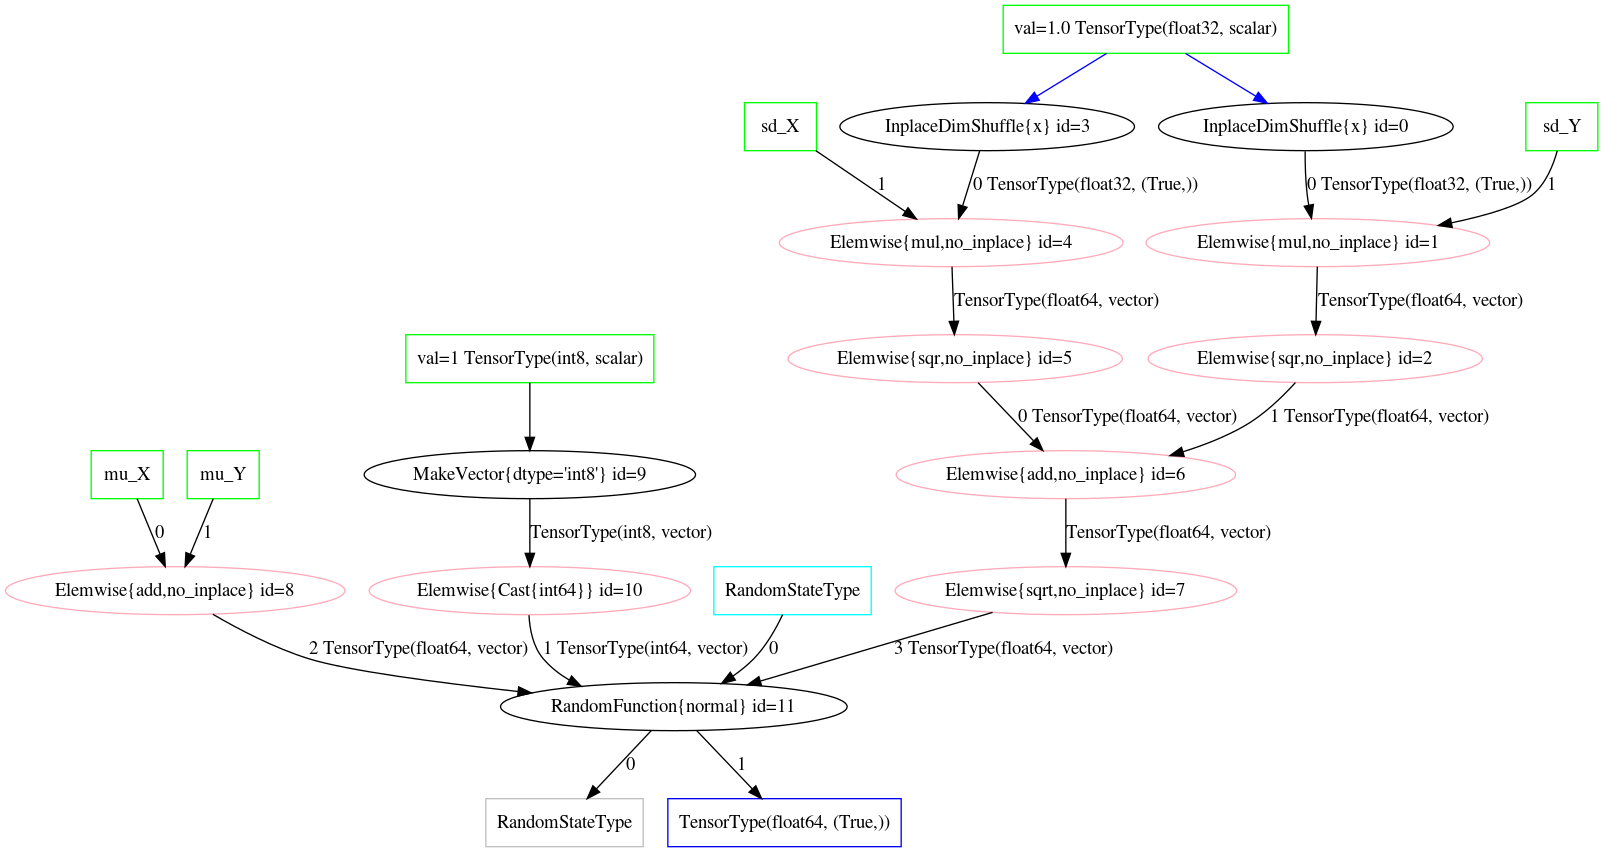
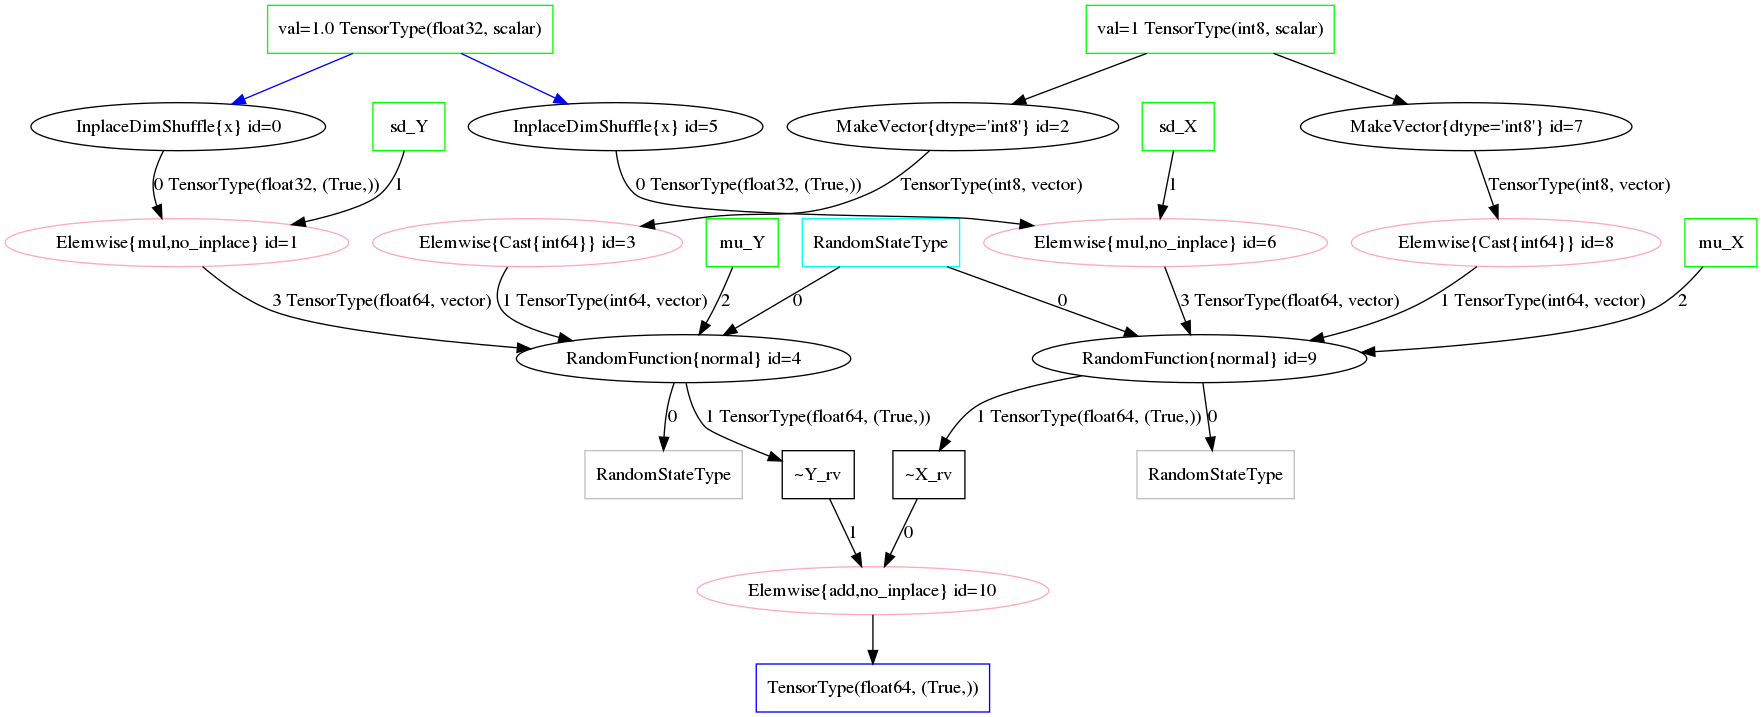
Generate Pelican site

diff --git a/symbolic-math-in-pymc3.html b/symbolic-math-in-pymc3.html
@@ -263,6 +263,9 @@ code span.wa { color: #60a0b0; font-weight: bold; font-style: italic; } /* Warni
 <a class="sourceLine" id="cb2-14" title="14">    Z_rv <span class="op">=</span> X_rv <span class="op">+</span> Y_rv</a></code></pre></div>
 <p>The Python objects representing terms in <span class="math inline">\(\eqref{eq:norm_conv_model}\)</span> are <code>X_rv</code>, <code>Y_rv</code>, and <code>Z_rv</code> in <a href="#pymc3_model">pymc3_model</a>. Those terms together form a Theano graph for the entirety of <span class="math inline">\(\eqref{eq:norm_conv_model}\)</span>.</p>
 <p>Other aspects of the model are implicitly stored in the <a href="https://docs.python.org/3.6/reference/compound_stmts.html#with">Python context object</a> <code>conv_model</code>. For example, the context object tracks the model’s log likelihood function when some variables are designated as “observed”–i.e. associated with sample data. In this example, we haven’t specified an observed variable, so the context object won’t be immediately useful.</p>
+<div class="remark" data-markdown="" data-env-number="1">
+<p>In what follows, we’ll briefly introduce the internal aspects of PyMC3 that are immediately relevant for the topics addressed here; otherwise, see <a href="https://docs.pymc.io/developer_guide.html">the PyMC3 developer’s guide</a> for an explanation of its design and internal workings.</p>
+</div>
 <p>The terms <code>X_rv</code>, <code>Y_rv</code> are derived from both a PyMC3 <a href="https://github.com/pymc-devs/pymc3/blob/v3.3/pymc3/model.py#L151"><code>Factor</code></a> class and the standard Theano <code>TensorVariable</code>, as illustrated in the output of <a href="#pymc3_mro">pymc3_mro</a>. However, the convolution term <code>Z_rv</code> is not a PyMC3 random variable; in other words, it does <strong>not</strong> implement the PyMC3 <code>Factor</code> class, but it <strong>is</strong> a Theano <code>TensorVariable</code>.</p>
 <div class="sourceCode" id="cb3"><pre class="sourceCode python"><code class="sourceCode python"><a class="sourceLine" id="cb3-1" title="1">pprint({<span class="st">&#39;Y_rv&#39;</span>: <span class="bu">type</span>(Y_rv).mro()})</a>
 <a class="sourceLine" id="cb3-2" title="2">pprint({<span class="st">&#39;Z_rv&#39;</span>: <span class="bu">type</span>(Z_rv).mro()})</a></code></pre></div>
@@ -295,21 +298,22 @@ code span.wa { color: #60a0b0; font-weight: bold; font-style: italic; } /* Warni
 </section>
 <section id="random-variables-in-graphs" class="level1">
 <h1>Random Variables in Graphs</h1>
-<p>The Theano graph representing <span class="math inline">\(\eqref{eq:norm_conv_model}\)</span> consists of linear/tensor algebra operations–under the interface of <code>theano.gof.op.Op</code>–on <code>TensorVariable</code>s. For our example in <a href="#pymc3_model">pymc3_model</a>, a textual representation is given in <a href="#Z_rv_debugprint">Z_rv_debugprint</a> and a graphical form in <a href="#fig:norm_sum_graph">fig:norm_sum_graph</a>. Likewise, <a href="#Z_rv_debugprint">Z_rv_debugprint</a> provides a more mathematical-expression-friendly output.</p>
+<p>The Theano graph representing <span class="math inline">\(\eqref{eq:norm_conv_model}\)</span> consists of linear/tensor algebra operations–under the interface of <code>theano.gof.op.Op</code>–on <code>TensorVariable</code>s. For our example in <a href="#pymc3_model">pymc3_model</a>, a textual representation is given in <a href="#Z_rv_debugprint">Z_rv_debugprint</a> and a graphical form in <a href="#fig:norm_sum_graph">fig:norm_sum_graph</a>.</p>
 <div class="sourceCode" id="cb7"><pre class="sourceCode python"><code class="sourceCode python"><a class="sourceLine" id="cb7-1" title="1">tt.printing.debugprint(Z_rv)</a></code></pre></div>
-<div class="sourceCode" id="cb8"><pre class="sourceCode python"><code class="sourceCode python"><a class="sourceLine" id="cb8-1" title="1">Elemwise{add,no_inplace} [<span class="bu">id</span> A] <span class="st">&#39;&#39;</span></a>
-<a class="sourceLine" id="cb8-2" title="2"> <span class="op">|</span>X_rv [<span class="bu">id</span> B]</a>
-<a class="sourceLine" id="cb8-3" title="3"> <span class="op">|</span>Y_rv [<span class="bu">id</span> C]</a>
-<a class="sourceLine" id="cb8-4" title="4"></a></code></pre></div>
+<pre class="text"><code>Elemwise{add,no_inplace} [id A] &#39;&#39;
+ |X_rv [id B]
+ |Y_rv [id C]
+
+</code></pre>
 <figure id="fig:norm_sum_graph">
 <img src="https://brandonwillard.github.io/figures/Z_rv.png" alt="Graph of Z_rv for the PyMC3 model in 2. " />
 <figcaption>
 Graph of <code>Z_rv</code> for the PyMC3 model in <a href="#org7c56540">2</a>.
 </figcaption>
 </figure>
-<p>At present, PyMC3 (version 3.3) does not make very consistent use of Theano’s graph objects. For instance, notice how the dependent parameters <code>mu_X</code> and <code>sd_X</code> are not present in the model’s graph (e.g. <a href="#fig:norm_sum_graph">fig:norm_sum_graph</a>). We know that <code>X_rv</code> and <code>Y_rv</code> are PyMC3 random variables, but what we’re seeing in the graph is only their representations as sampled values–in the form of Theano tensor variables. In other words, where <span class="math inline">\(X\)</span> and <span class="math inline">\(Y\)</span> symbolize random variables and <span class="math inline">\(x \sim X\)</span>, <span class="math inline">\(y \sim Y\)</span> samples, we’re working with a graph expressing only <span class="math inline">\(z = x + y\)</span>.</p>
-<p>What we really need for higher-level work is a graph for <span class="math inline">\(Z = X + Y\)</span> that includes every term involved. This is true for graphs representing a model’s measure <strong>and</strong> its sampled values. The former is essentially covered by the log-likelihood graphs we can already produce using the model objects; it’s the latter that we’re building toward, since it enables the application of numerous techniques in statistics and probability theory.</p>
-<p>One way to produce graphs that represent the full probabilistic model is to formalize the notion of random variable in Theano. Basically, if we want to include the relationships between distribution parameters and sampled variables, we need an <code>Op</code> that represents random variables and/or the act of sampling. <code>theano.tensor.raw_random.RandomFunction</code> does exactly this; although it represents the concept of a sampling action and not exactly a random measure.</p>
+<p>At present, PyMC3 (version <code>print(pm.__version__)</code> 3.3) does not make very consistent use of Theano’s graph objects. For instance, notice how the dependent parameters <code>mu_X</code> and <code>sd_X</code> are not present in the model’s graph (e.g. <a href="#fig:norm_sum_graph">fig:norm_sum_graph</a>). We know that <code>X_rv</code> and <code>Y_rv</code> are PyMC3 random variables, but what we see in the graph is only their representations as sampled scalar/vector/matrix/tensor values. In other words, where <span class="math inline">\(X\)</span>, <span class="math inline">\(Y\)</span> symbolize random variables and <span class="math inline">\(x \sim X\)</span>, <span class="math inline">\(y \sim Y\)</span> their samples, we have a graph expressing only <span class="math inline">\(z = x + y\)</span>.</p>
+<p>What we need for higher-level work is a graph of <span class="math inline">\(Z = X + Y\)</span> that includes every term involved. This is true for graphs representing a model’s measure/log-likelihood <strong>and</strong> its sampled values. The former is essentially covered by the log-likelihood graphs we can already produce using the PyMC3 model objects. It’s the latter that we’ll establish here, since it sets the stage for applications of numerous techniques in statistics and probability theory.</p>
+<p>One way to produce graphs that represent the full probabilistic model is to formalize the notion of random variables using the Theano API. Basically, if we want to include the relationships between distribution parameters and sampled variables, <strong>we need an <code>Op</code> that represents random variables and/or the act of sampling</strong>. <code>theano.tensor.raw_random.RandomFunction</code> does exactly this; although it represents the concept of a sampling action and not exactly a random measure.</p>
 <p>Nonetheless, using <code>RandomFunction</code>, we can replace nodes corresponding to PyMC3 random variables with newly constructed <code>Op</code> nodes.</p>
 <div class="example" data-markdown="" data-env-number="1">
 <p>We can produce the types of graphs described above through conversion of existing PyMC3 models.</p>
@@ -465,8 +469,7 @@ Graph of <code>Z_rv</code> for the PyMC3 model in <a href="#org7c56540">2</a>.
 <a class="sourceLine" id="cb13-77" title="77">    <span class="cf">return</span> fgraph_</a></code></pre></div>
 <div class="sourceCode" id="cb14"><pre class="sourceCode python"><code class="sourceCode python"><a class="sourceLine" id="cb14-1" title="1">Z_fgraph_rv_tt <span class="op">=</span> create_theano_rvs(Z_fgraph_tt)</a>
 <a class="sourceLine" id="cb14-2" title="2"></a>
-<a class="sourceLine" id="cb14-3" title="3">tt.printing.debugprint(Z_fgraph_rv_tt)</a>
-<a class="sourceLine" id="cb14-4" title="4"><span class="co"># pprint(tt.pprint(Z_fgraph_rv_tt.outputs[0]))</span></a></code></pre></div>
+<a class="sourceLine" id="cb14-3" title="3">tt.printing.debugprint(Z_fgraph_rv_tt)</a></code></pre></div>
 <pre class="text"><code>Elemwise{add,no_inplace} [id A] &#39;&#39;   10
  |RandomFunction{normal}.1 [id B] &#39;~X_rv&#39;   9
  | |&lt;RandomStateType&gt; [id C]
@@ -491,14 +494,14 @@ Graph of <code>Z_rv</code> for the PyMC3 model in <a href="#org7c56540">2</a>.
 
 </code></pre>
 <figure id="fig:random_op_mapping_exa_graph">
-<img src="https://brandonwillard.github.io/figures/Z_fgraph_rv_tt.png" alt="Graph of the log likelihood function for Z_fgraph_rv_tt. " />
+<img src="https://brandonwillard.github.io/figures/Z_fgraph_rv_tt.png" alt="Graph of Z = X + Y using an Op to represent sampling/a random variable. " />
 <figcaption>
-Graph of the log likelihood function for <code>Z_fgraph_rv_tt</code>.
+Graph of <span class="math inline">\(Z = X + Y\)</span> using an <code>Op</code> to represent sampling/a random variable.
 </figcaption>
 </figure>
 </div>
 <p>Illustrations of the transformed graphs given in <a href="#random_op_mapping_exa">random_op_mapping_exa</a> and <a href="#fig:random_op_mapping_exa_graph">fig:random_op_mapping_exa_graph</a> show the full extent of our simple example model and provide a context in which to perform higher-level manipulations.</p>
-<p>With a graph representing the relevant terms and relationships, we can start implementing the convolution simplification/transformation/optimization. For instance, as shown in <a href="#rv_find_nodes">rv_find_nodes</a>, we can now easily query random function/variable nodes in a graph.</p>
+<p>With a graph representing the relevant terms and relationships, we can implement the convolution simplification/transformation/optimization. For instance, as shown in <a href="#rv_find_nodes">rv_find_nodes</a>, we can now easily query random function/variable nodes in a graph.</p>
 <div class="sourceCode" id="cb16"><pre class="sourceCode python"><code class="sourceCode python"><a class="sourceLine" id="cb16-1" title="1"><span class="co"># Using a `FunctionGraph` &quot;feature&quot;</span></a>
 <a class="sourceLine" id="cb16-2" title="2">Z_fgraph_rv_tt.attach_feature(NodeFinder())</a>
 <a class="sourceLine" id="cb16-3" title="3"></a>
@@ -520,23 +523,23 @@ Graph of the log likelihood function for <code>Z_fgraph_rv_tt</code>.
  |Elemwise{Cast{int64}} [id C] &#39;&#39;
  | |MakeVector{dtype=&#39;int8&#39;} [id D] &#39;&#39;
  |   |TensorConstant{1} [id E]
- |mu_Y [id F]
+ |mu_X [id F]
  |Elemwise{mul,no_inplace} [id G] &#39;&#39;
    |InplaceDimShuffle{x} [id H] &#39;&#39;
    | |TensorConstant{1.0} [id I]
-   |sd_Y [id J]
-RandomFunction{normal}.1 [id A] &#39;~Y_rv&#39;
+   |sd_X [id J]
+RandomFunction{normal}.1 [id A] &#39;~X_rv&#39;
 RandomFunction{normal}.0 [id K] &#39;&#39;
  |&lt;RandomStateType&gt; [id B]
  |Elemwise{Cast{int64}} [id L] &#39;&#39;
  | |MakeVector{dtype=&#39;int8&#39;} [id M] &#39;&#39;
  |   |TensorConstant{1} [id E]
- |mu_X [id N]
+ |mu_Y [id N]
  |Elemwise{mul,no_inplace} [id O] &#39;&#39;
    |InplaceDimShuffle{x} [id P] &#39;&#39;
    | |TensorConstant{1.0} [id I]
-   |sd_X [id Q]
-RandomFunction{normal}.1 [id K] &#39;~X_rv&#39;
+   |sd_Y [id Q]
+RandomFunction{normal}.1 [id K] &#39;~Y_rv&#39;
 
 </code></pre>
 </section>
@@ -627,7 +630,7 @@ std. dev.: [1.11803399]
 
 </code></pre>
 <figure id="fig:norm_sum_merge_graph">
-<img src="https://brandonwillard.github.io/figures/Z_fgraph_rv_tt.png" alt="Graph of merged normal variables. " />
+<img src="https://brandonwillard.github.io/figures/Z_fgraph_opt_tt.png" alt="Graph of merged normal variables. " />
 <figcaption>
 Graph of merged normal variables.
 </figcaption>
